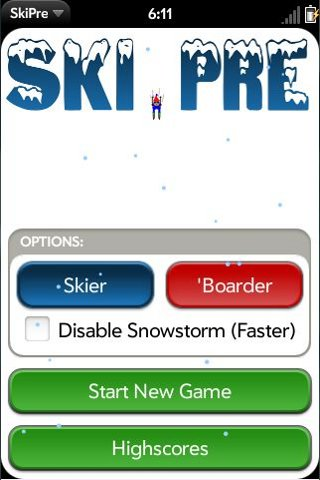
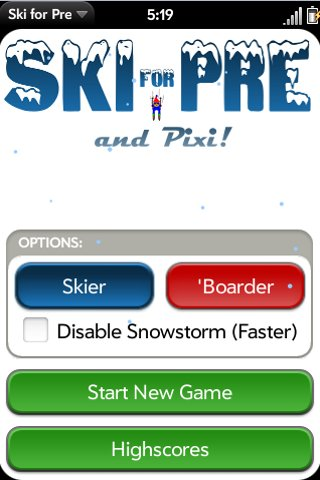
git-svn-id: file:///media/house/svn/skipre@34 a6ec7c5c-bb92-4c44-a628-85f73da2c26c

diff --git a/trunk/app/views/start/start-scene.html b/trunk/app/views/start/start-scene.html
@@ -1,6 +1,6 @@
 <div id="main" style="background-color: white; height: 480px;">
     <div>
-        <img src="images/ski.png" class="ski" /><img id="skier" src="images/sprites/r/riley_down.png" class="startSkier" /><img src="images/pre.png" class="pre" />
+        <img src="images/ski.png" class="ski" /><img src="images/for.png" class="the" /><img id="skier" src="images/sprites/r/riley_down.png" class="startSkier" /><img src="images/pre.png" class="pre" /><img src="images/pixi.png" class="pixi" />
     </div>
     <div style="position: fixed; bottom: 0px; width: 100%;">
         <div class="palm-group">

diff --git a/trunk/stylesheets/skipre.css b/trunk/stylesheets/skipre.css
@@ -48,3 +48,15 @@
     top: 10px;
     left: 180px;
 }
+
+.the{
+	position: absolute;
+	top: 40px;
+	left: 140px;
+}
+
+.pixi {
+	position: absolute;
+	top: 98px;
+	left: 95px;
+}
